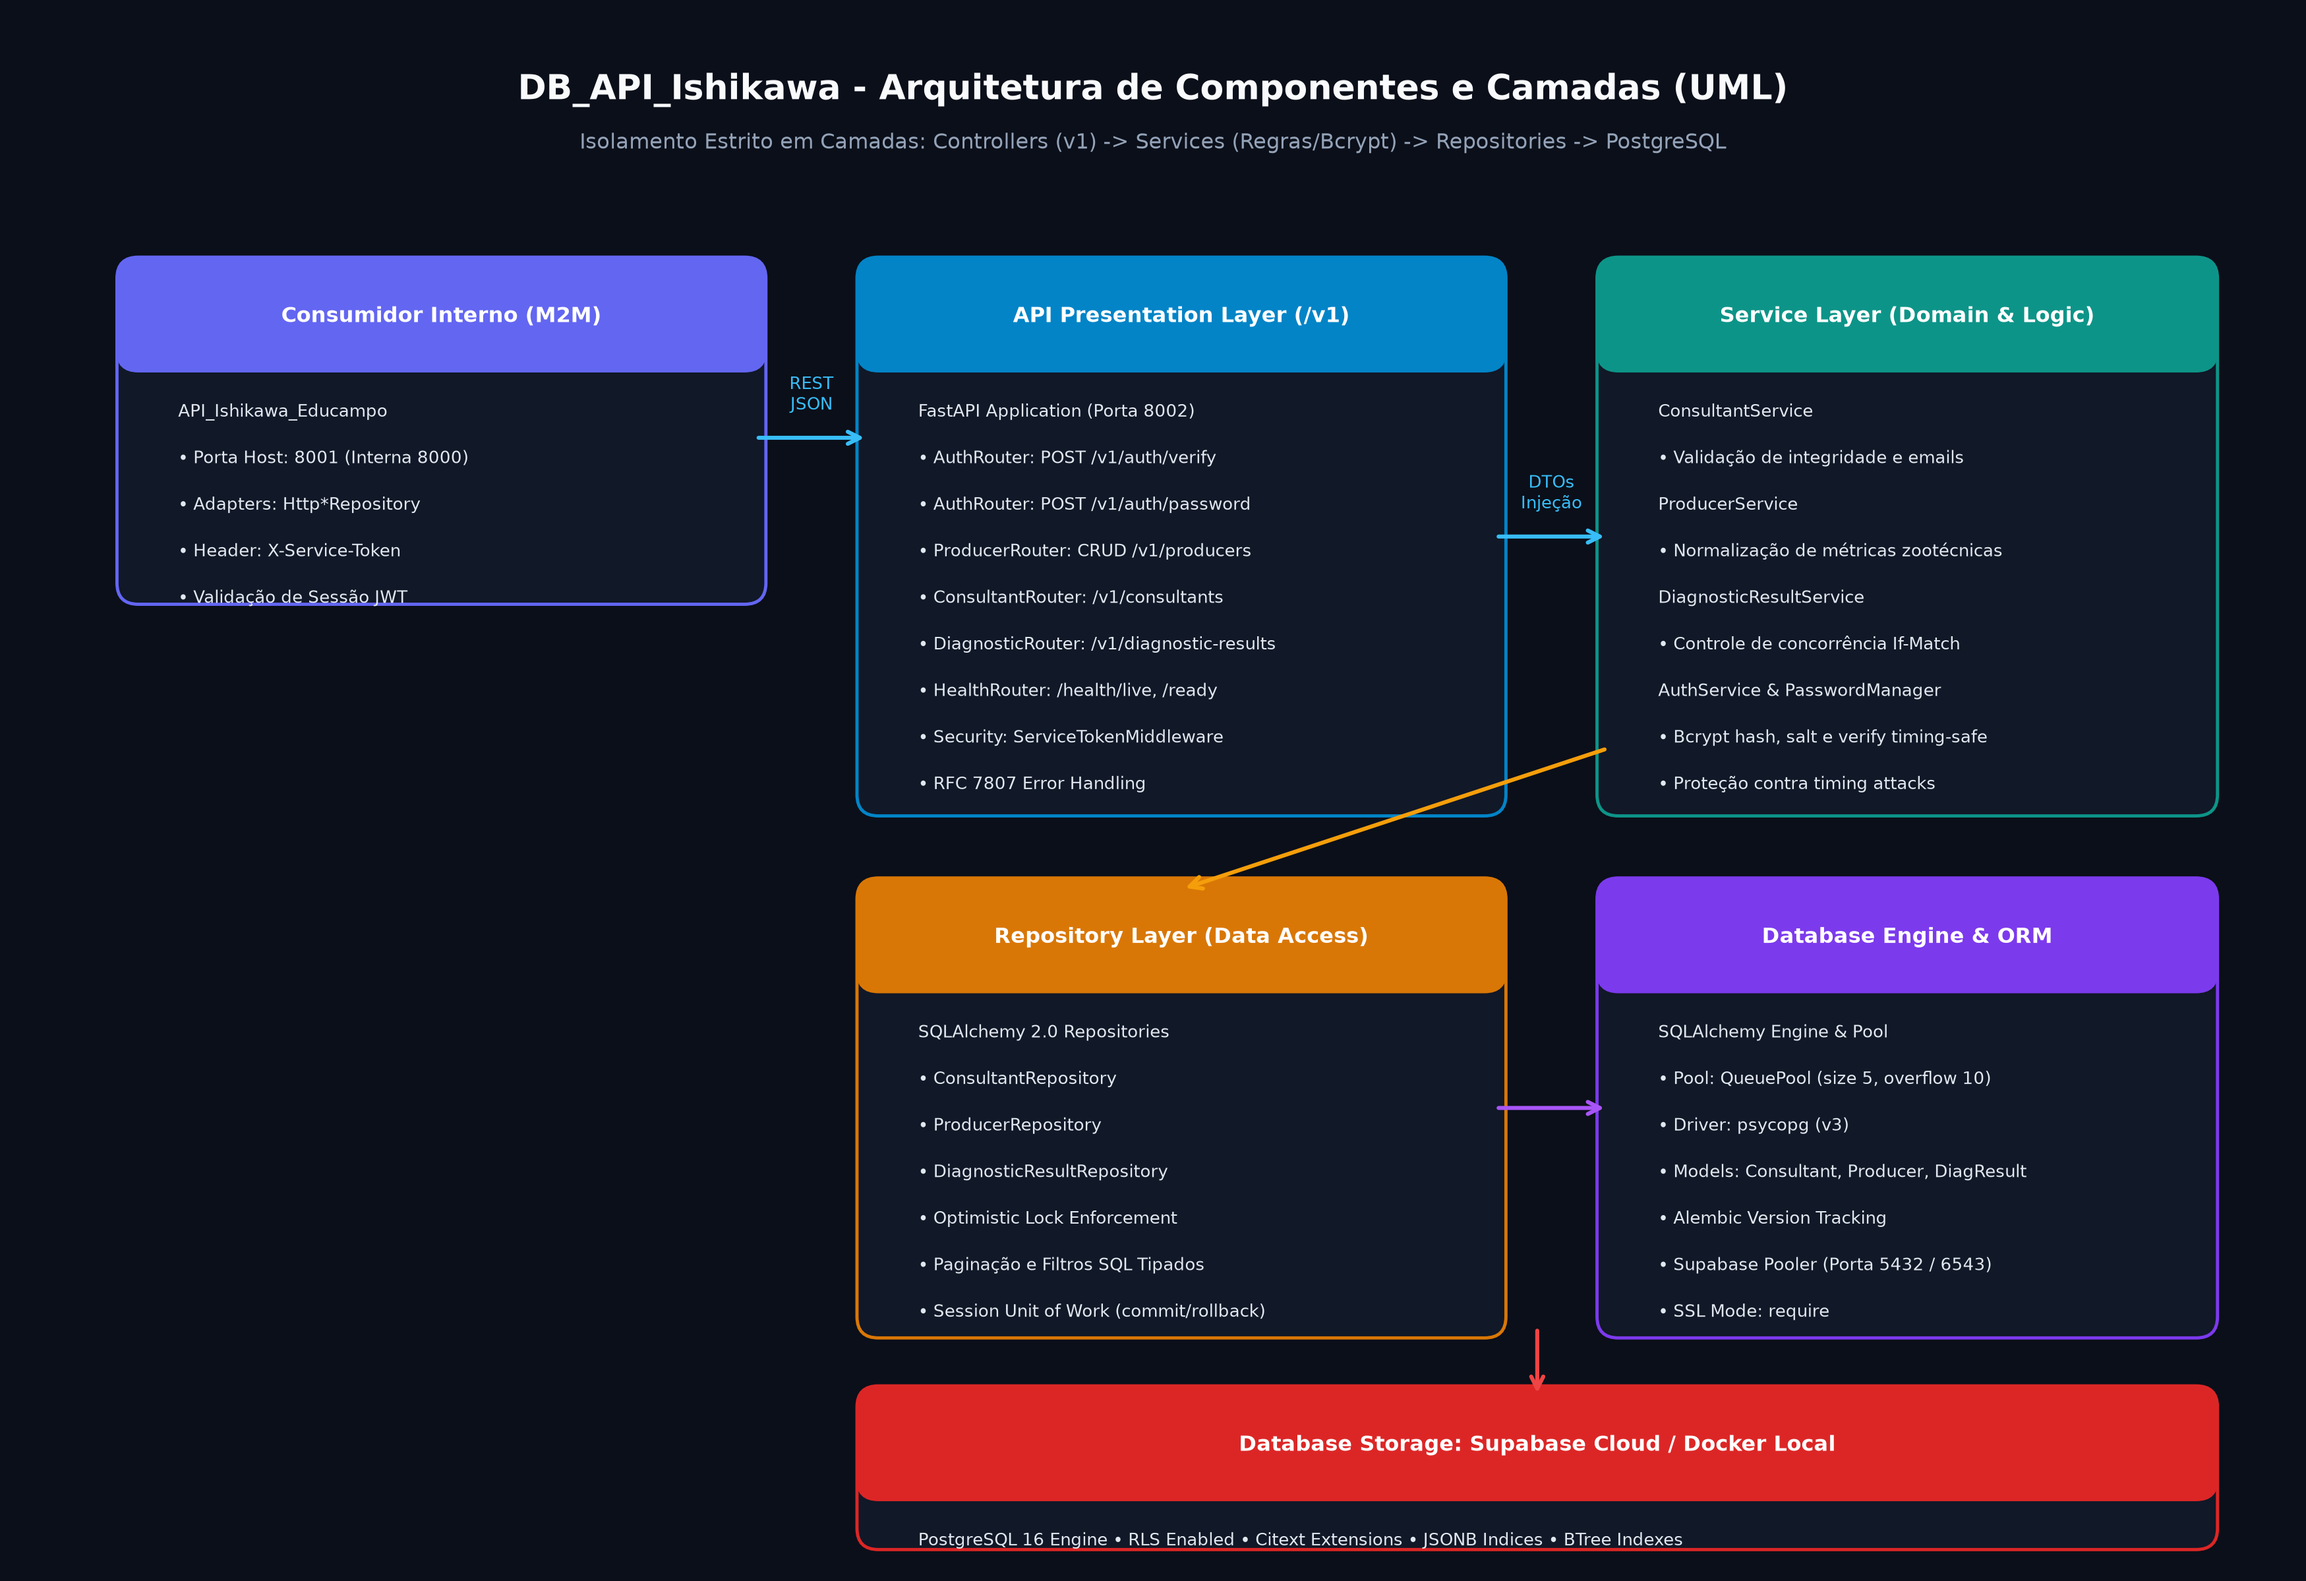
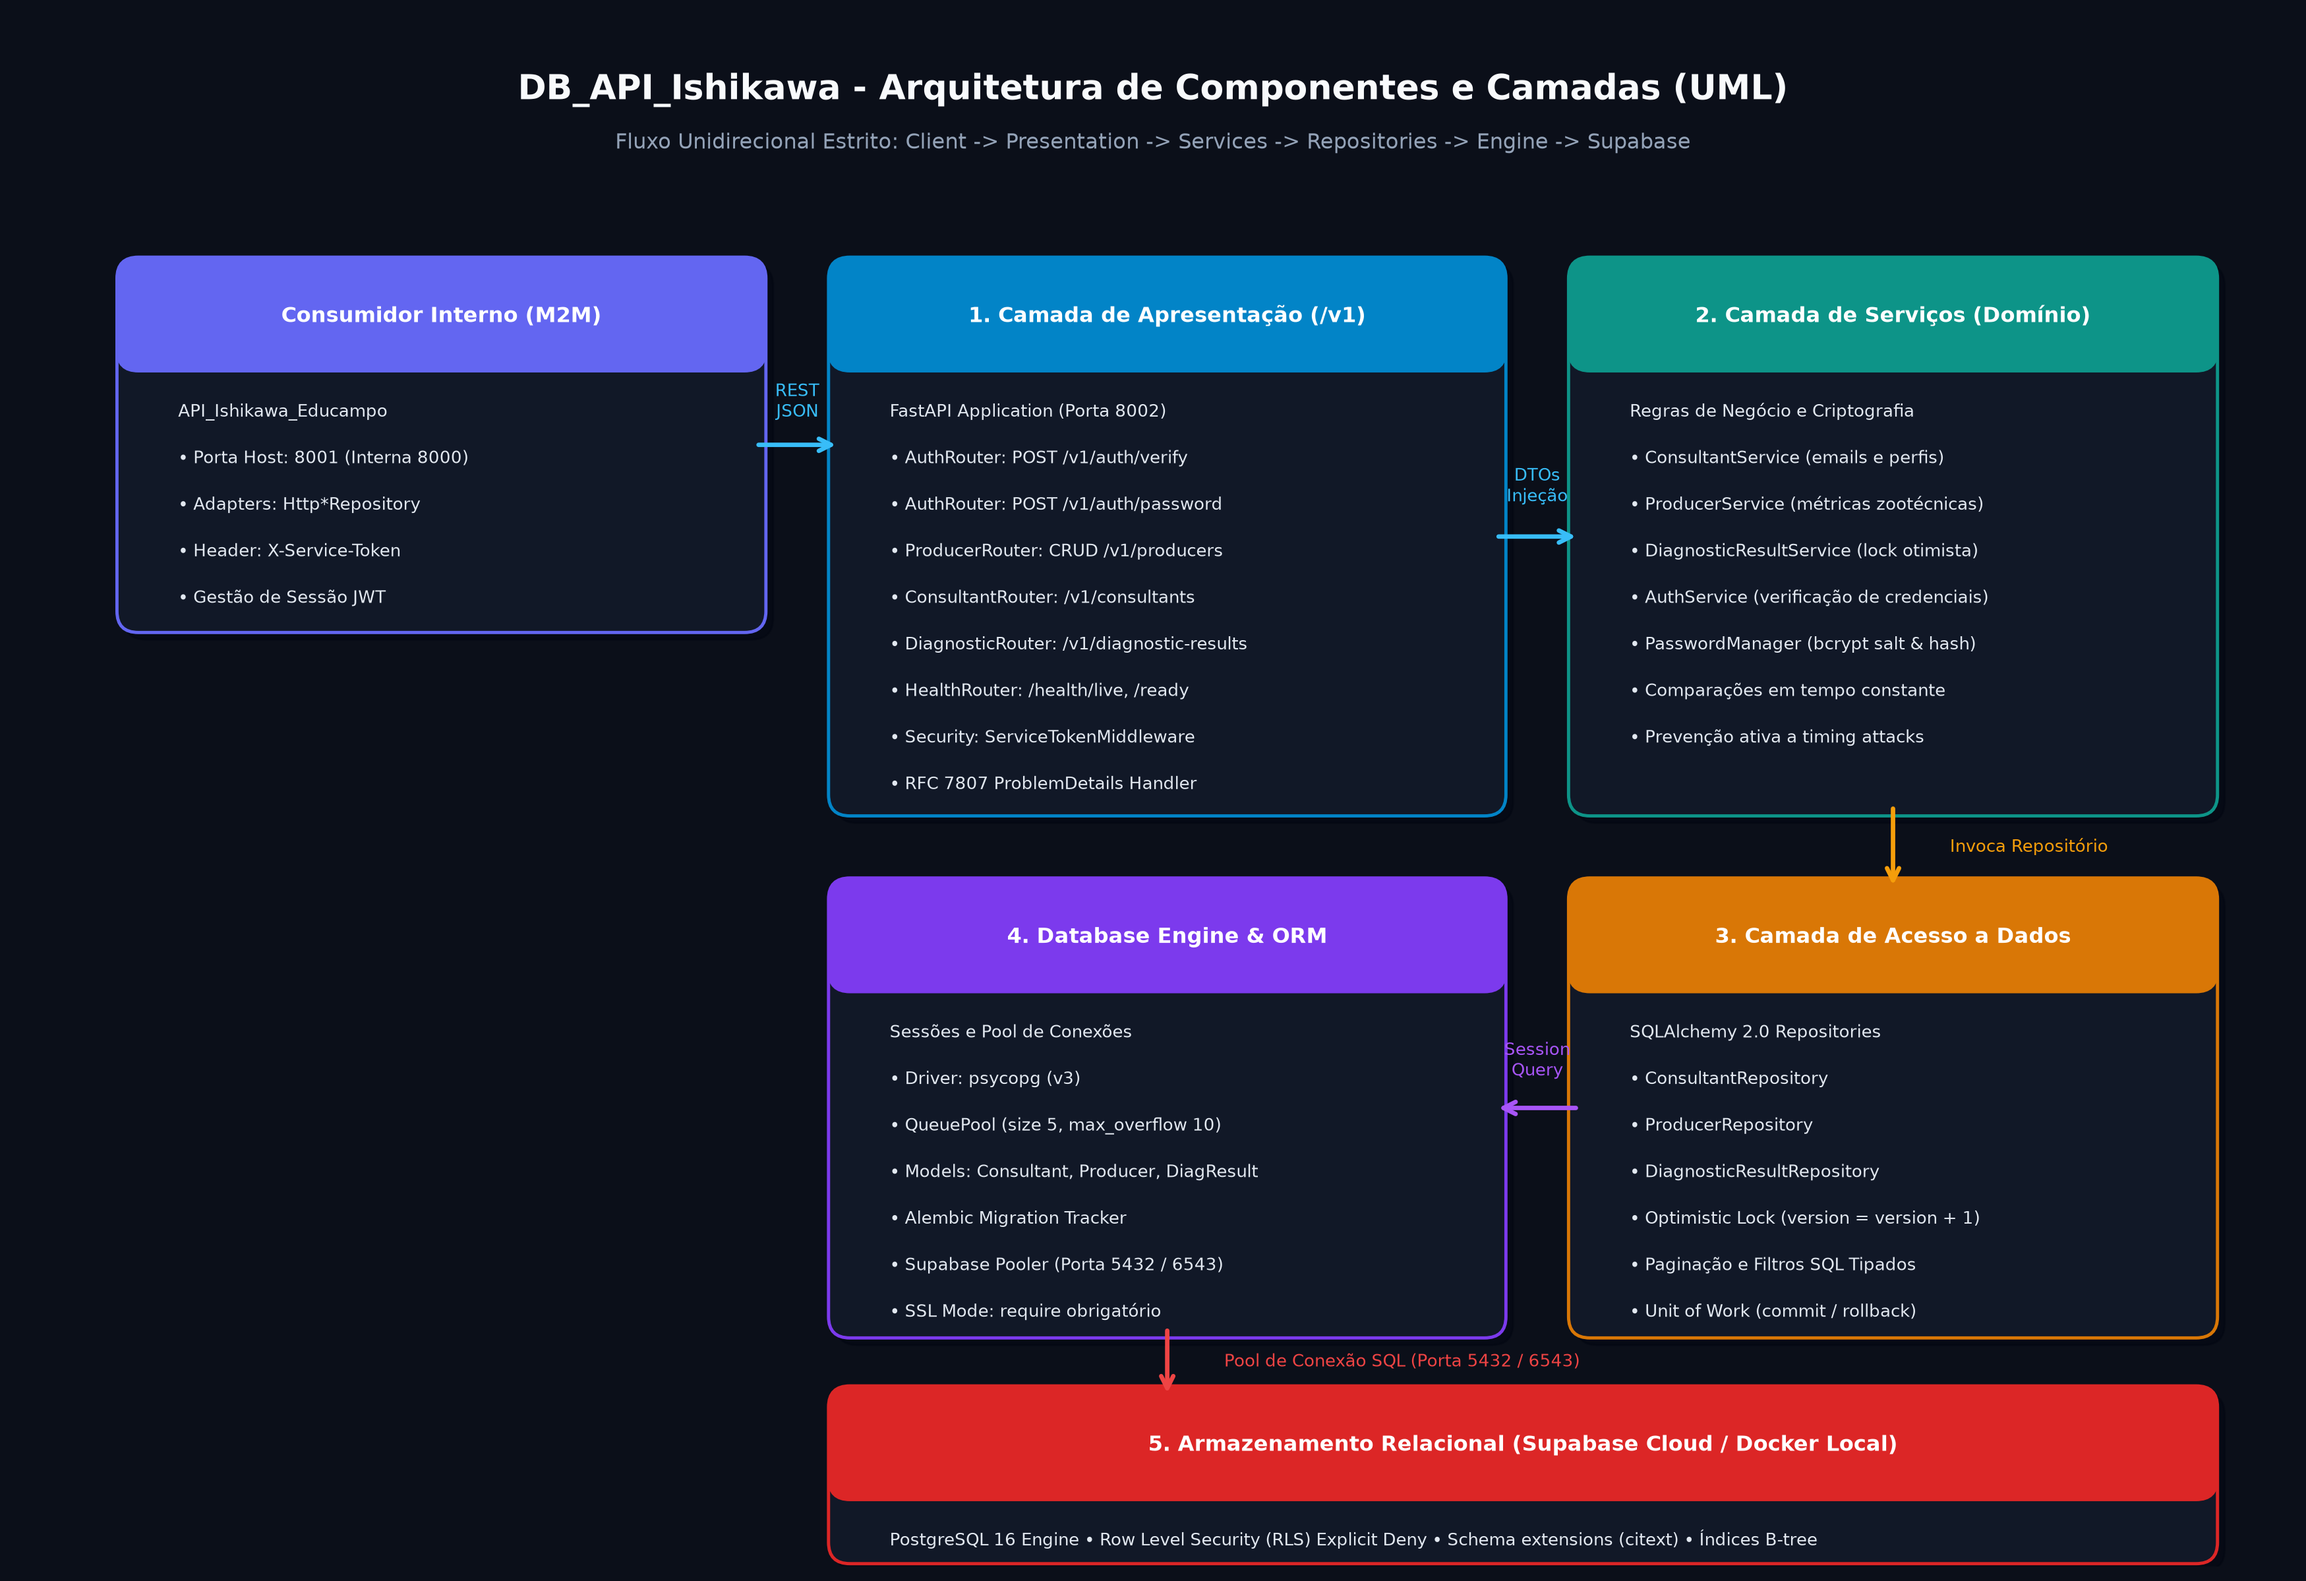
fix(docs): align API UML connectors and clarify database engine origin in diagram

diff --git a/docs/api_architecture_and_components.md b/docs/api_architecture_and_components.md
@@ -58,8 +58,9 @@ graph TD
 
     Adapters -->|"HTTP REST JSON"| Presentation
     Presentation --> Services
-    Services --> Repositories
-    Repositories --> Infrastructure
+    Services -->|"Invoca Repositório"| Repositories
+    Repositories -->|"Session Query"| Engine
+    Engine -->|"Pool SQL (5432/6543)"| Database
 ```
 
 ---
